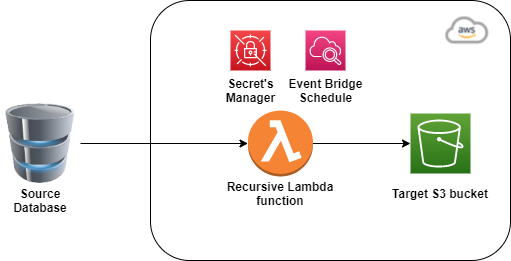
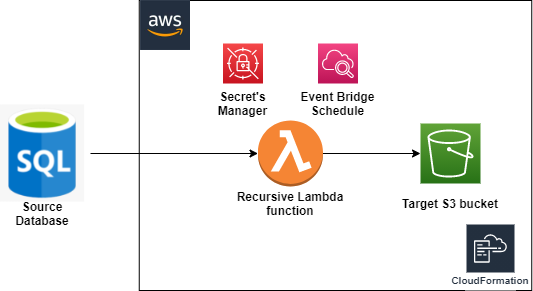
adding code for recursive lambda doc 2

Changed region(s): [[0.0, 0.0, 1.0, 1.0], [0.2935, 0.8582, 0.3229, 0.9502]]

diff --git a/codes/aws_lambda_codes/recursiveLambda/readme.md b/codes/aws_lambda_codes/recursiveLambda/readme.md
@@ -21,6 +21,17 @@ As the Volume of the data was very high in the source DB therefore, the decision
 The Data will only land in S3 if the source tables are not empty. 
 
 ### Technical Details
+
+#### AWS Services 
+- AWS Lambda Function
+- Amazon S3
+- AWS Secrets Manager
+- AWS CloudFormation
+- AWS Event Bridge
+
+####  Python libraries
+- SQLAlchemy
+
 **Recursive Lambda Function**
 A lambda function edb_iris_land_lilly_play_in_s3raw is created in edb via CloudFormation in sam_template.yml.
 - recursive_lambda.py
